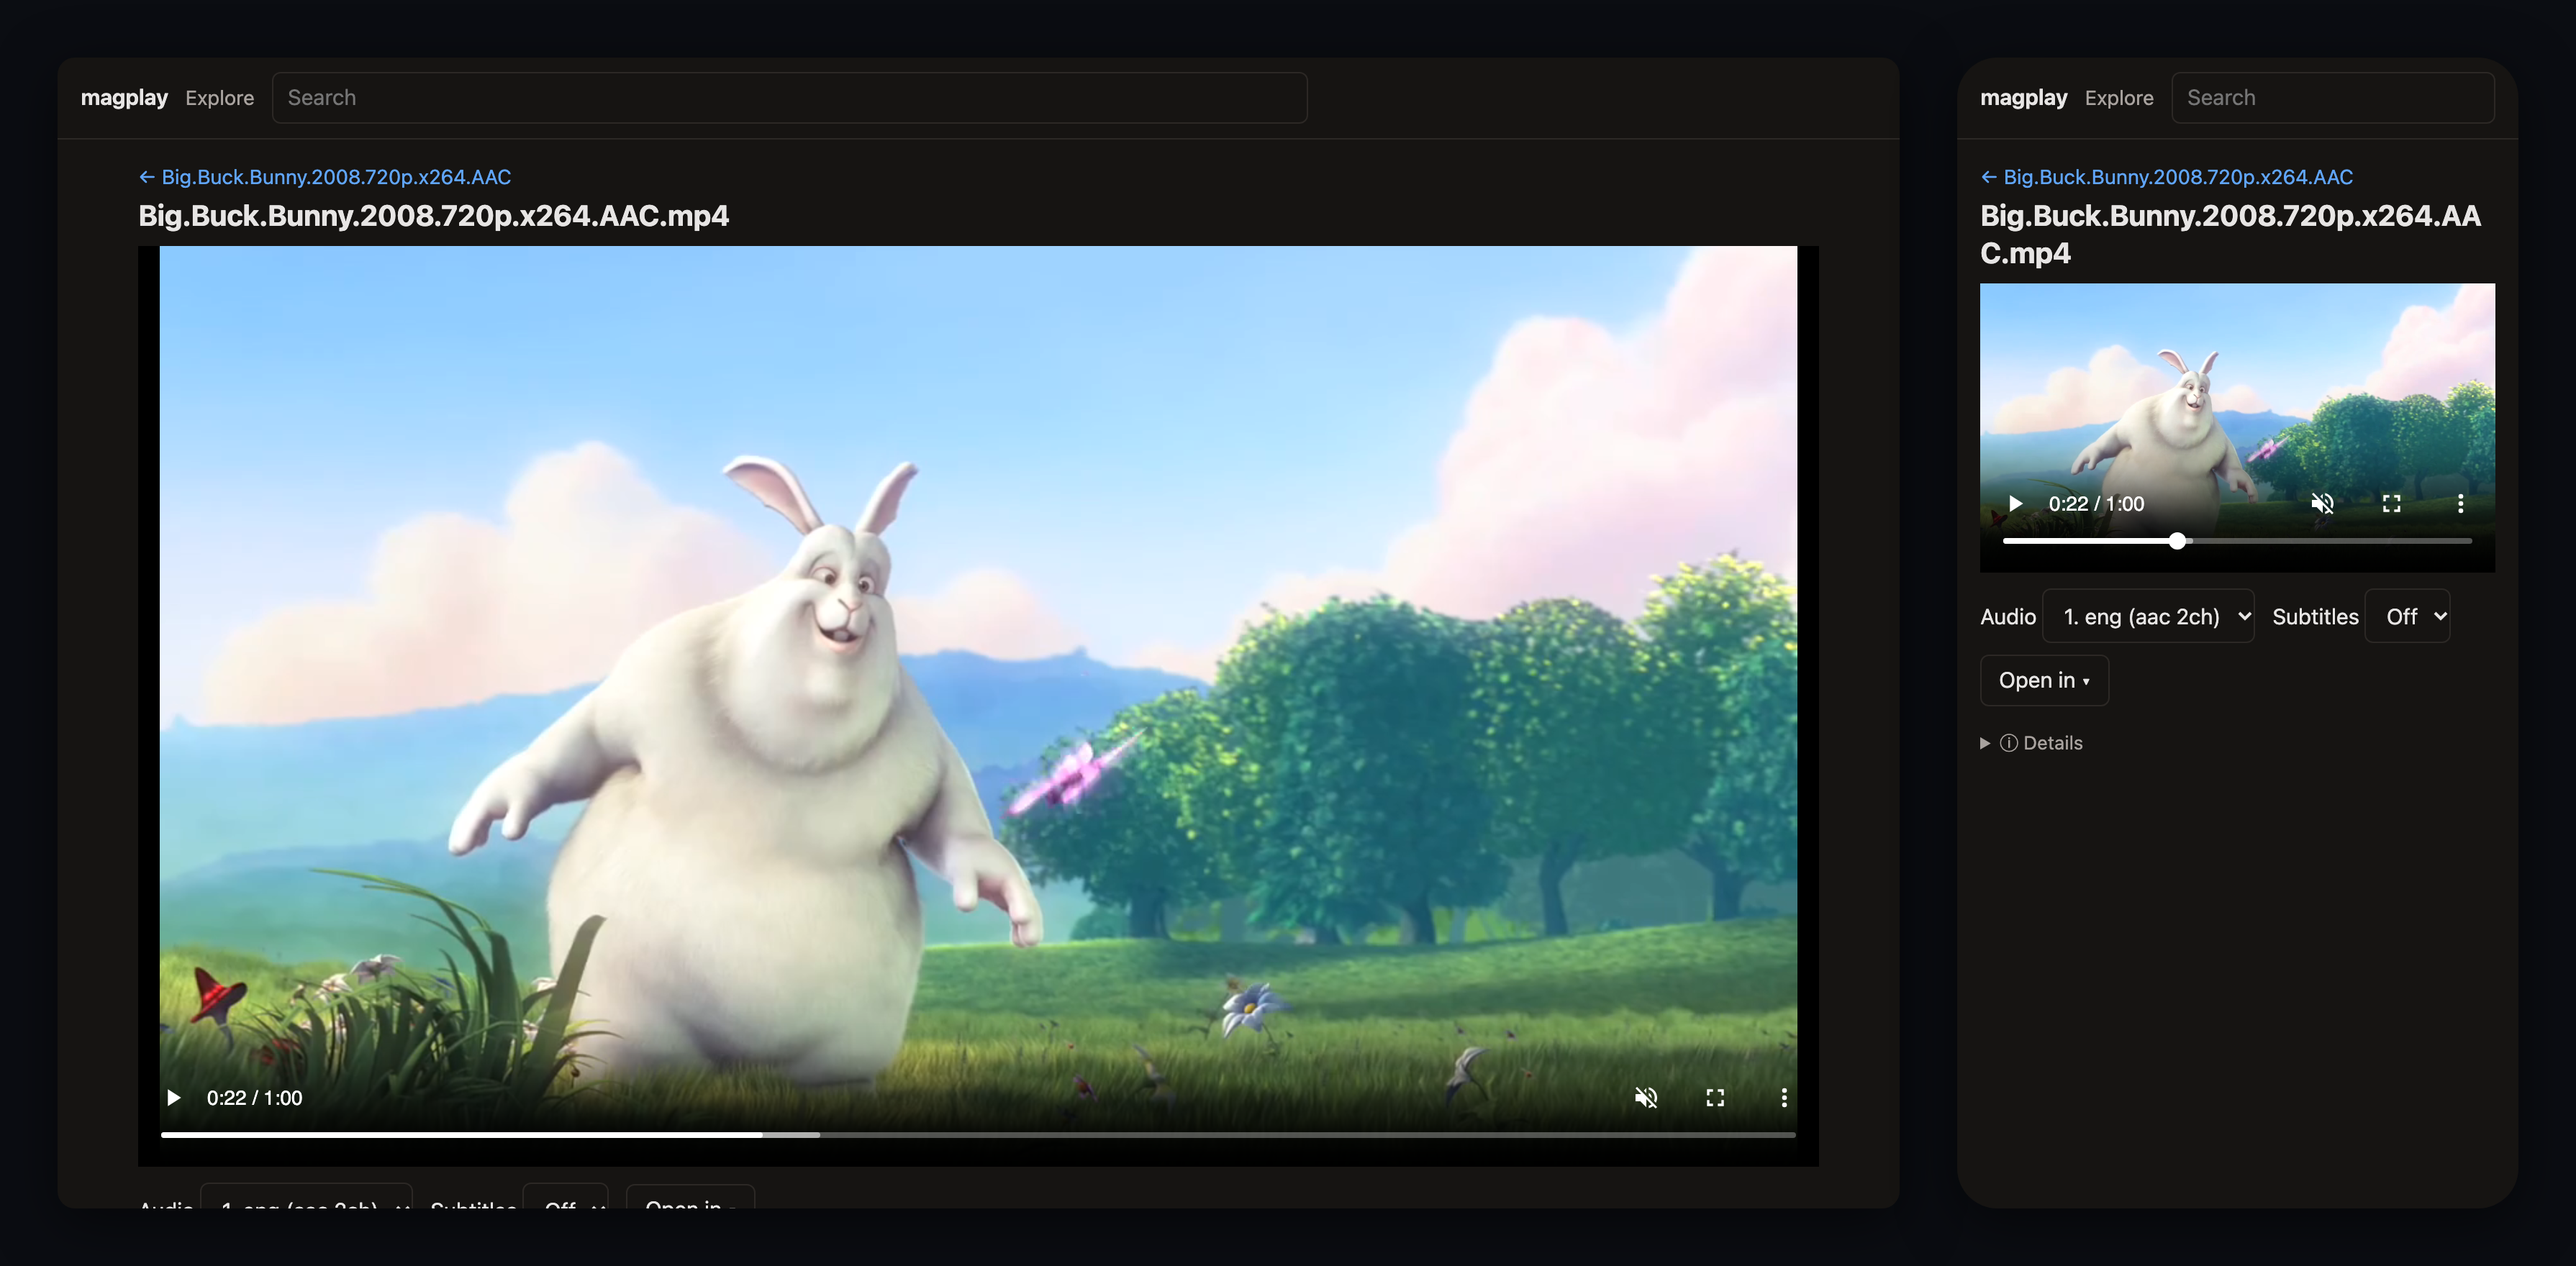
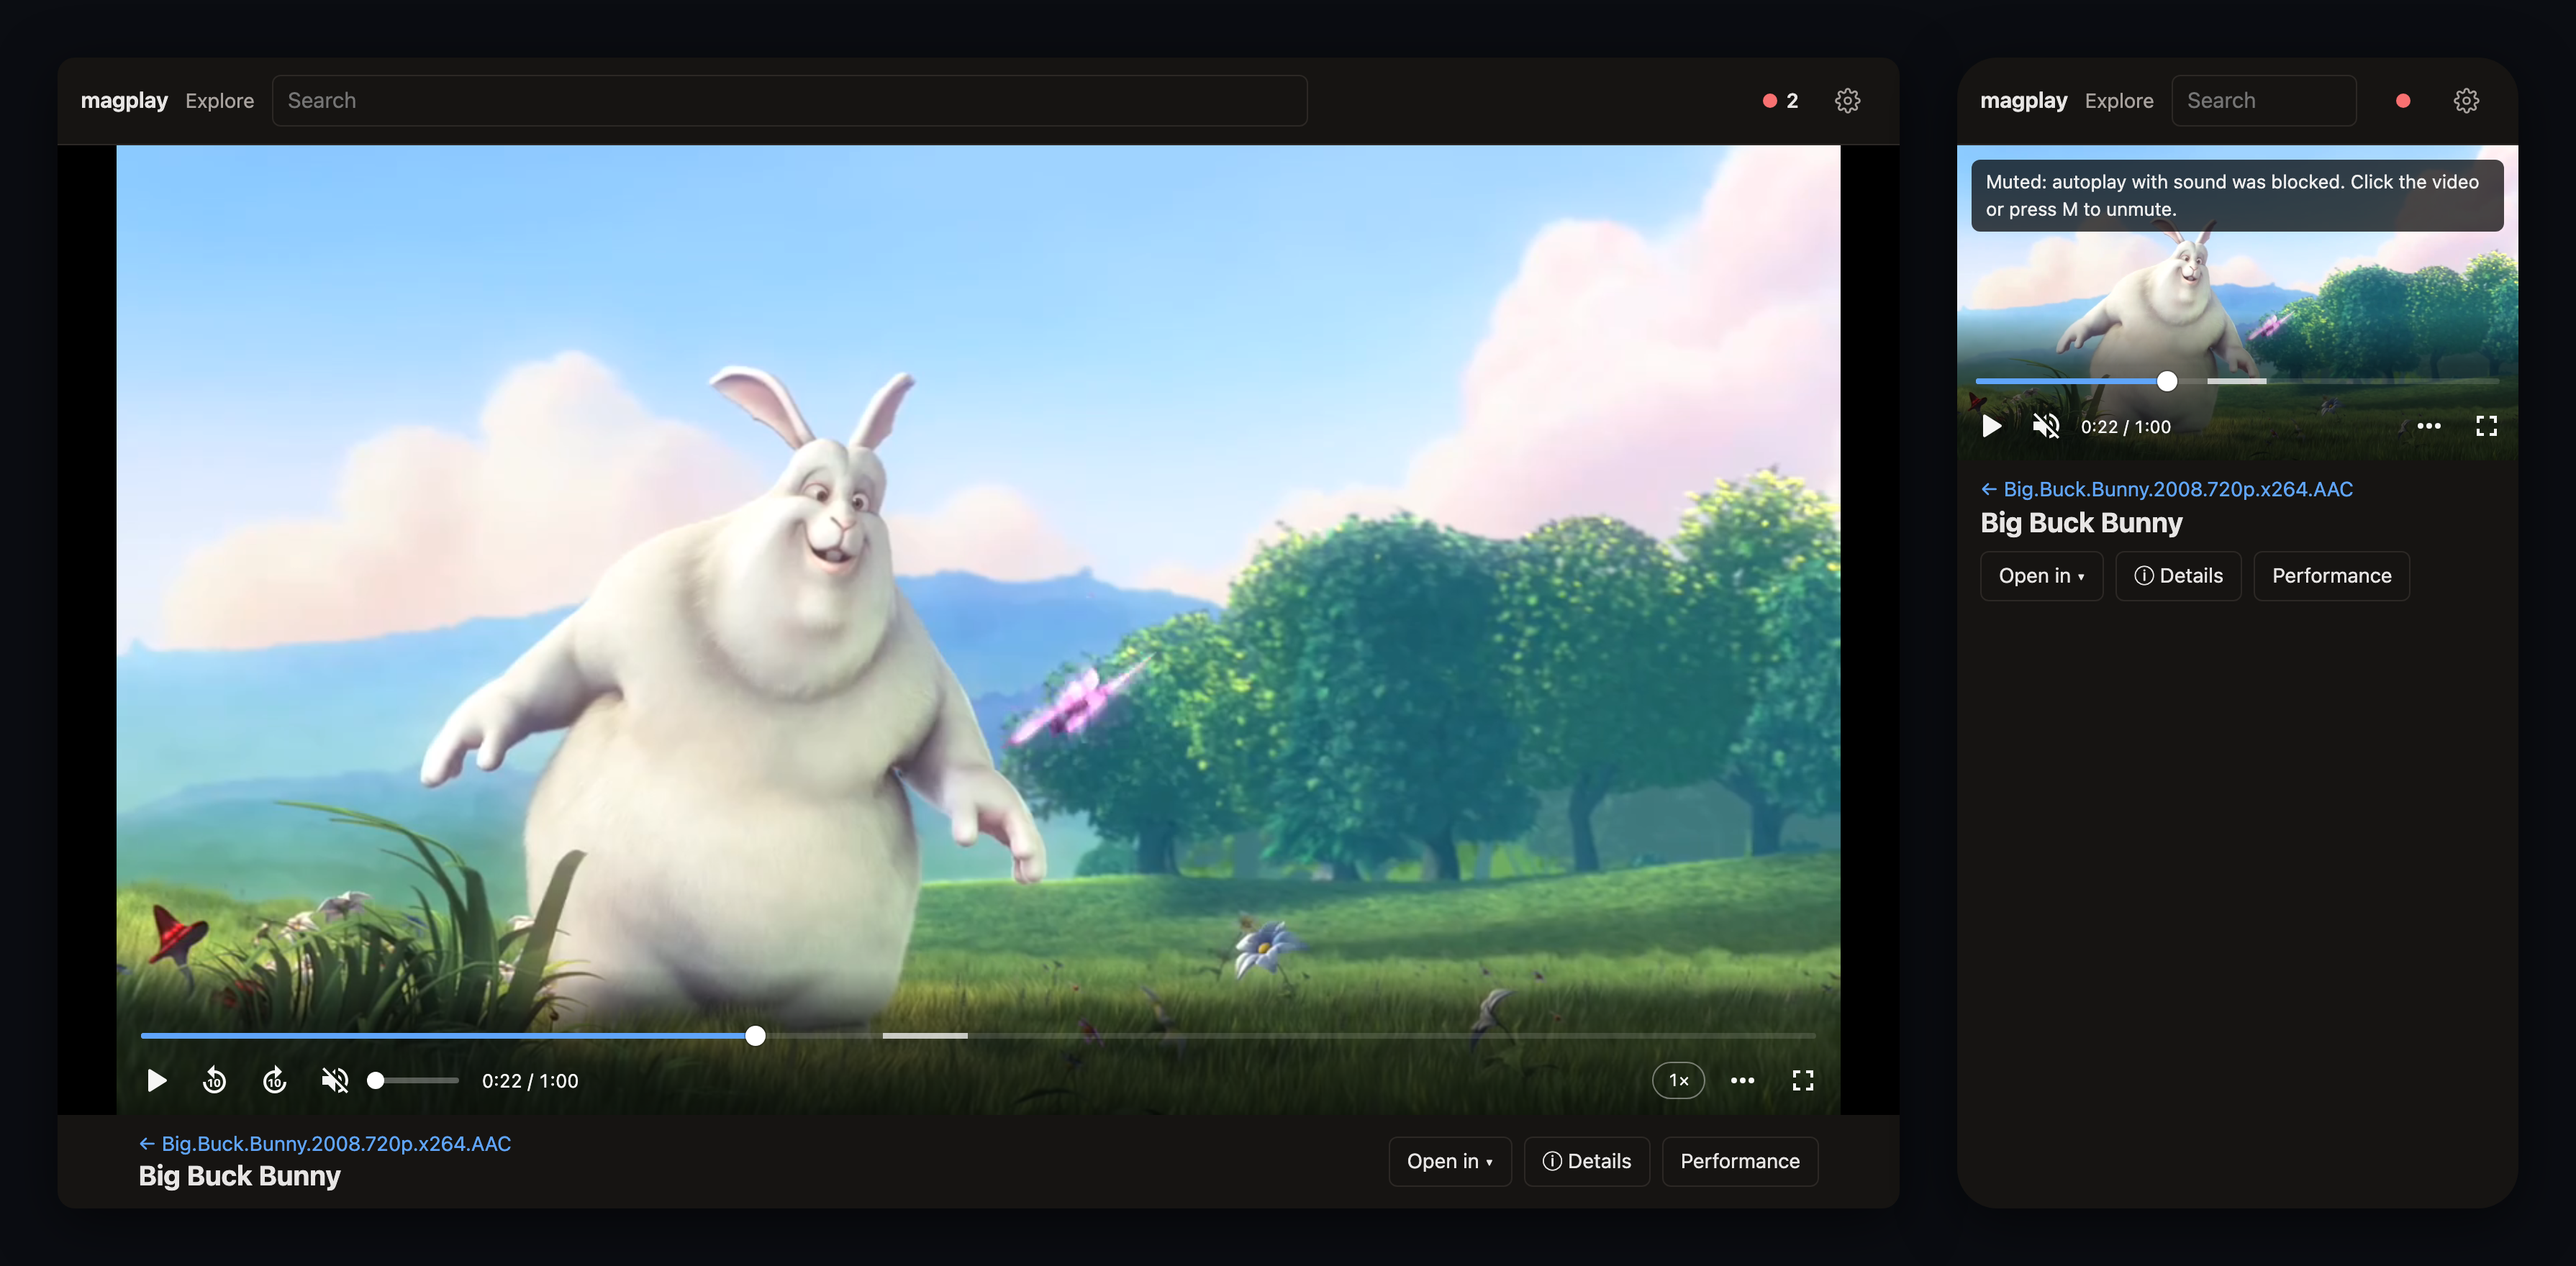
docs: refresh README screenshots and captions

diff --git a/README.md b/README.md
@@ -6,6 +6,10 @@ Search a Torznab indexer (BitMagnet, Prowlarr…), pick a torrent, and play a vi
 
 ![magplay playing Big Buck Bunny on desktop and mobile](docs/screenshots/player.png)
 
+![magplay settings on desktop and mobile](docs/screenshots/settings.png)
+
+![magplay status panel on desktop and mobile](docs/screenshots/status.png)
+
 <sub>The player shows [Big Buck Bunny](https://peach.blender.org/) (© Blender Foundation, CC BY 3.0). To regenerate the screenshots, run `node tools/scripts/screenshots.mjs path/to/big_buck_bunny_720p_h264.mov`.</sub>
 
 For sample media to try it with, Blender’s [Open Movies](https://studio.blender.org/films/) such as Big Buck Bunny and [Elephants Dream](https://orange.blender.org/download/) are shared under Creative Commons.

diff --git a/docs/checkpoints/2026-10-19-readme-screenshots.md b/docs/checkpoints/2026-10-19-readme-screenshots.md
@@ -1,0 +1,7 @@
+# README screenshot refresh validation — 2026-10-19
+
+Refreshed the README screenshots (search, player, settings, status panel) on desktop and phone using the isolated local fixture in `tools/scripts/screenshots.mjs` and a Big Buck Bunny 720p H.264 clip. Updated README image references and captions.
+
+- `npm run build` passed.
+- `node tools/scripts/screenshots.mjs path/to/big_buck_bunny_720p_h264.mov` completed and wrote `docs/screenshots/search.png`, `player.png`, `settings.png`, and `status.png`.
+- `git diff --check` passed.

diff --git a/.changeset/readme-screenshots-refresh.md b/.changeset/readme-screenshots-refresh.md
@@ -1,0 +1,5 @@
+---
+"@magplay/server": patch
+---
+
+Refresh README screenshots and captions.
